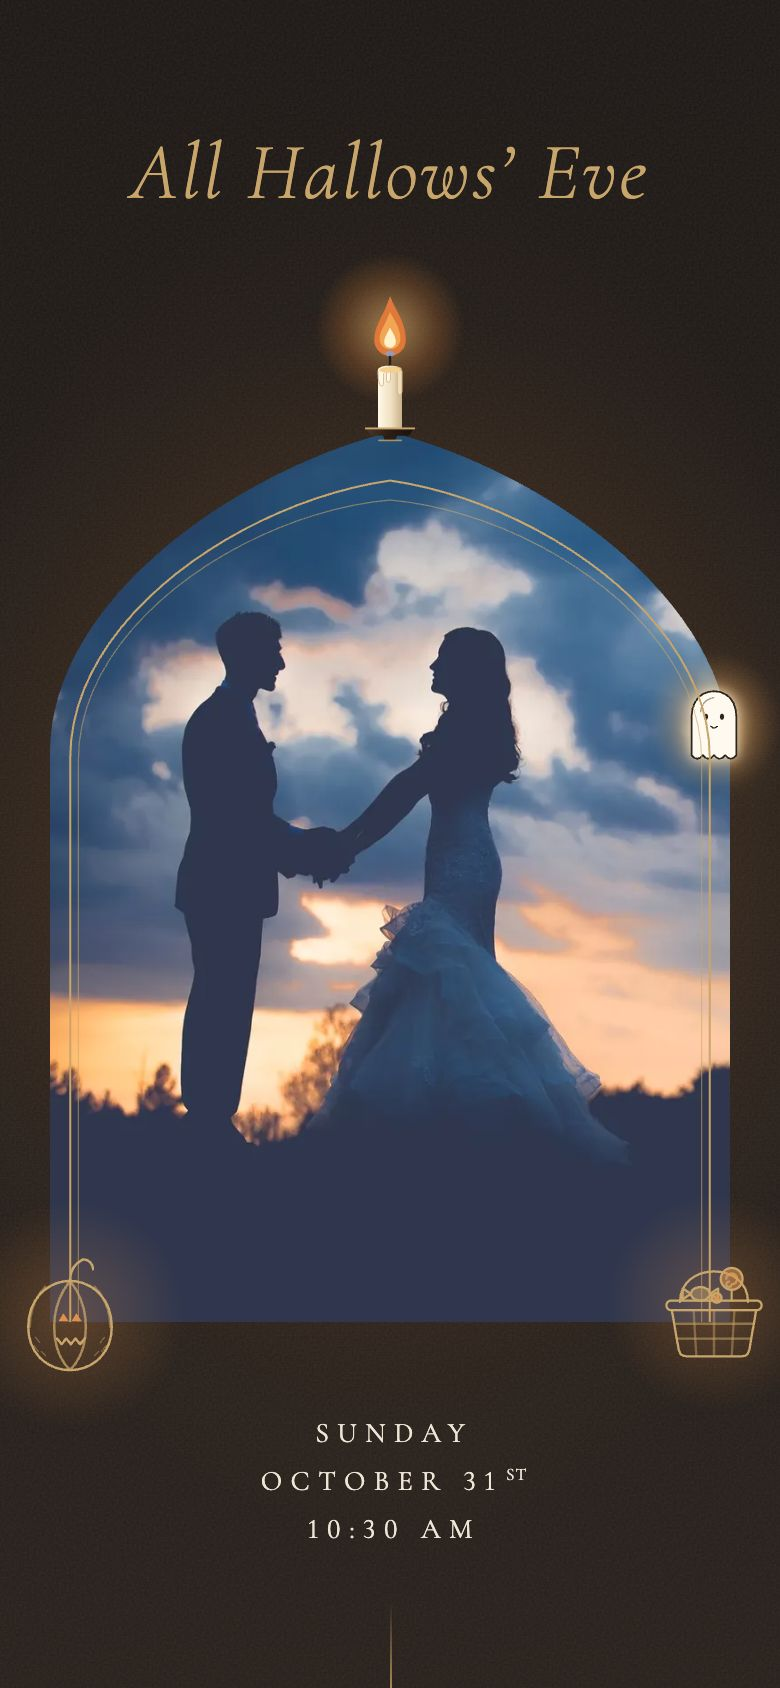
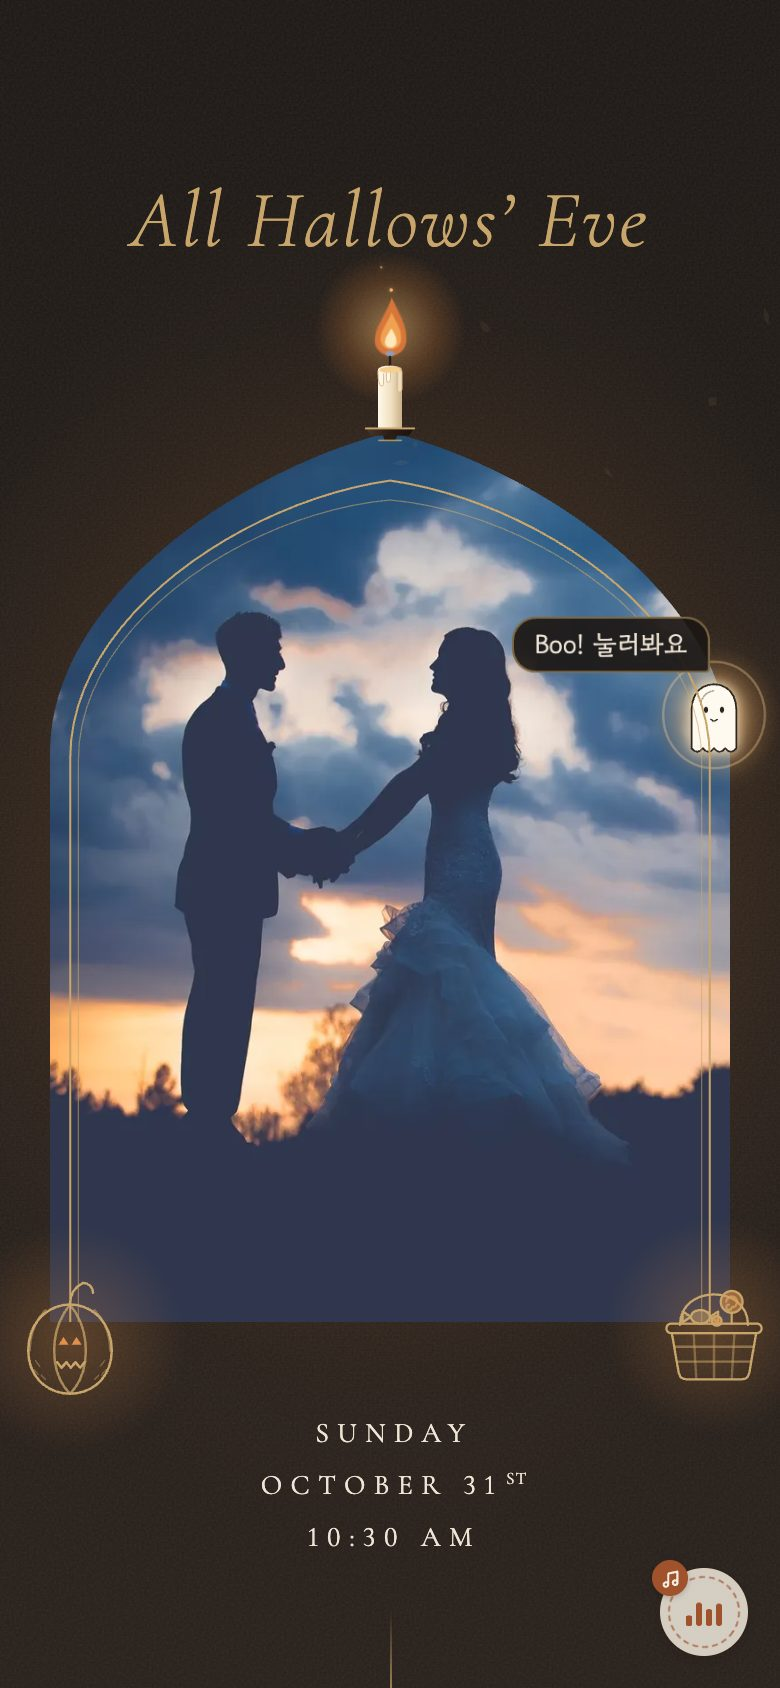
docs: README 화면 캡처 최신화(밀랍인장 봉투 인트로·커버·오시는 길·투표), 인트로·스냅샷 그리드·테마 선택지 제거 설명 반영

diff --git a/README.md b/README.md
@@ -6,10 +6,10 @@
 
 
 <p align="center">
-  <a href="https://teddko.github.io/wedding/"><img src="docs/screenshots/01-intro.jpg?v=20261105" width="200" alt="인트로 게이트"></a>
-  <a href="https://teddko.github.io/wedding/"><img src="docs/screenshots/02-cover.jpg?v=20261105" width="200" alt="커버"></a>
-  <a href="https://teddko.github.io/wedding/"><img src="docs/screenshots/04-location.jpg?v=20261105" width="200" alt="오시는 길"></a>
-  <a href="https://teddko.github.io/wedding/"><img src="docs/screenshots/05-poll.jpg?v=20261105" width="200" alt="하객 투표와 방명록"></a>
+  <a href="https://teddko.github.io/wedding/"><img src="docs/screenshots/01-intro.jpg?v=20261105b" width="200" alt="인트로 게이트"></a>
+  <a href="https://teddko.github.io/wedding/"><img src="docs/screenshots/02-cover.jpg?v=20261105b" width="200" alt="커버"></a>
+  <a href="https://teddko.github.io/wedding/"><img src="docs/screenshots/04-location.jpg?v=20261105b" width="200" alt="오시는 길"></a>
+  <a href="https://teddko.github.io/wedding/"><img src="docs/screenshots/05-poll.jpg?v=20261105b" width="200" alt="하객 투표와 방명록"></a>
 </p>
 <p align="center">인트로 · 커버 · 오시는 길 · 투표와 방명록 (모바일 390px, 이미지 클릭 시 데모 사이트 이동)</p>
 
@@ -94,22 +94,23 @@ corepack pnpm build      # astro check + astro build -> apps/web/dist/
 
 ## 테마 정책
 
-- 방문자에게 열린 테마는 `apps/web/src/lib/themes.ts` 의 `THEME_NAMES` 에 있는 키만 해당. 현재 `["halloween"]` 하나라서 테마 전환 버튼과 인트로 선택지는 숨김
+- 방문자에게 열린 테마는 `apps/web/src/lib/themes.ts` 의 `THEME_NAMES` 에 있는 키만 해당. 현재 `["halloween"]` 하나라서 테마 전환 버튼은 숨김(인트로 테마 선택지는 제거)
 - `dev` (프로그래머), `puppy` (강아지) 코드와 토큰은 유지 중
-- 다시 열기: `THEME_NAMES` 에 키 추가(예: `["halloween", "dev", "puppy"]`). 2개 이상이면 전환 버튼과 인트로 선택지 자동 표시, `?theme=dev` 쿼리와 localStorage 선택도 다시 동작
+- 다시 열기: `THEME_NAMES` 에 키 추가(예: `["halloween", "dev", "puppy"]`). 2개 이상이면 전환 버튼 자동 표시, `?theme=dev` 쿼리와 localStorage 선택도 다시 동작
 - 새 테마 추가: `THEMES` 에 키 추가 + `apps/web/src/styles/global.css` 의 `[data-theme]` 토큰 블록 추가
 - 모션 감소(`prefers-reduced-motion`) 환경에서는 모든 연출이 정적 상태로 표시
 
 ## 기능
 
-- 인트로 게이트: 이름과 날짜 타이포 + 초대장 열기. 탭 시 페이드아웃, 배경음악 시작. JS 가 꺼져 있거나 4.5초 안에 로드 실패 시 자동 해제
+- 인트로 게이트: 이름과 날짜 타이포 + 밤빛 봉투(10:7)와 박쥐 날개 하트 밀랍인장. 탭 시 인장이 떼어지고 덮개가 열리며 상단 유령이 봉투 안으로 들어갔다가 커버 아치 우상단 유령 자리로 착지. 배경음악은 연출 종료 후 본문 진입 시점에 시작. 모바일 가로는 2열 배치. JS 가 꺼져 있거나 4.5초 안에 로드 실패 시 자동 해제
 - 커버(Halloween): 촛불, 바구니, 유령이 포인터를 따라다니는 연출 + 드레스코드 팝업
 - 섹션 장난감: 거미, 고양이, 부엉이, 박쥐, 랜턴, 모자, 물약, 거미줄(탭 연출)
 - 갤러리: FLIP 라이트박스(스와이프, 핀치, 관성, 방향키, Esc), 모바일 뒤로가기 버튼으로 라이트박스 닫기
 - 스냅샷(하객 사진 업로드)
   - 클라이언트 압축은 Web Worker 에서 처리, HEIC 는 `heic-to` 지연 로드 청크로 대체 디코드
   - 업로드 전 확인 다이얼로그에서 삭제 비밀번호 입력(선택)
-  - 캐러셀은 30장 단위 페이징
+  - 8장 이하는 한 장씩 스와이프, 9~18장은 6열 그리드(장수만큼 행 증가), 19장 이상은 6열 × 3행 페이지 단위 가로 스와이프
+  - 하단 점·캡슐 인디케이터(최대 7개 창), 끝 근처 도달 시 다음 30장 자동 로드
   - 라이트박스 삭제: 비밀번호를 정한 사진은 어느 기기든 비밀번호 필요, 비밀번호 없는 사진은 올린 기기에서만 가능
   - 삭제 비밀번호 입력값은 업로드·삭제 완료나 취소 시 즉시 비움
   - 이미지는 R2 공개 주소에서 직접 로드(Worker 요청 절감), 실패 시 Worker 로 재시도
